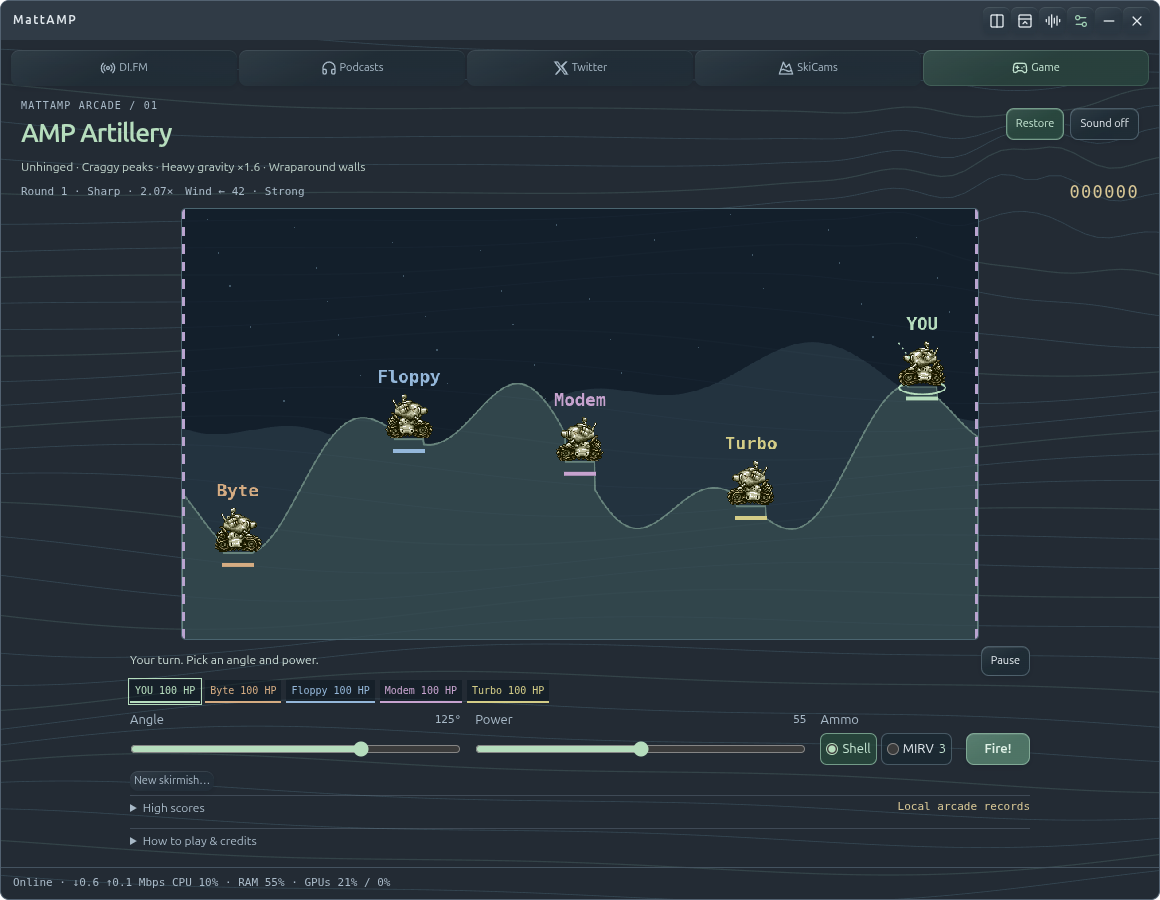
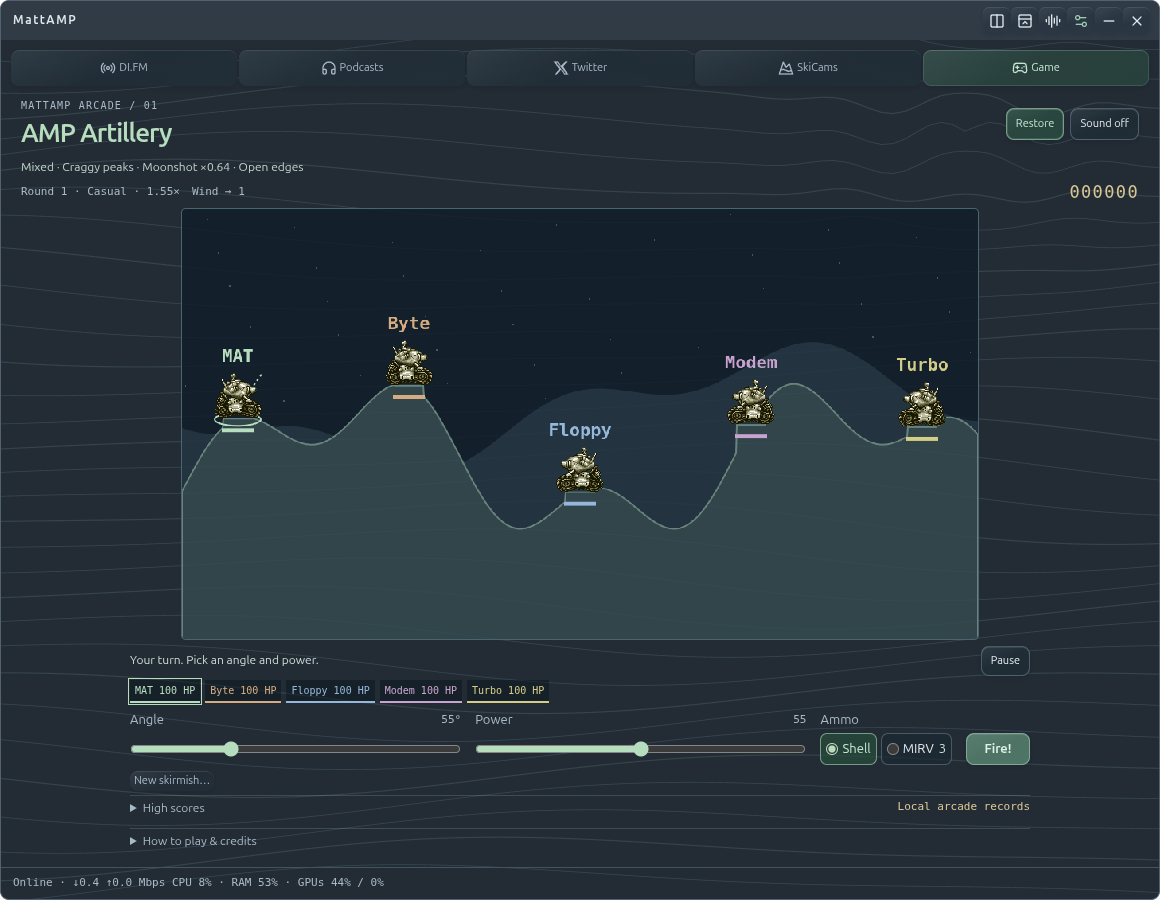
Label the player tank with their arcade initials

diff --git a/src/artillery-ui.js b/src/artillery-ui.js
@@ -18,7 +18,7 @@ class MattArcade{
   this.$('abandon-no').onclick=()=>{this.$('abandon').hidden=true;this.paused=false;this.sync();};
   this.$('abandon-yes').onclick=()=>this.reset();this.$('again').onclick=()=>{if(this.visible&&this.battle?.phase==='over'&&!this.saving&&!this.victory.active)this.reset();};
   this.$('save-retry').onclick=()=>void this.saveScore();
-  this.$('initials').oninput=e=>{e.target.value=e.target.value.toUpperCase().replace(/[^A-Z0-9]/g,'').slice(0,3);};
+  this.$('initials').oninput=e=>{e.target.value=e.target.value.toUpperCase().replace(/[^A-Z0-9]/g,'').slice(0,3);this.updatePreviewName();};
   for(const details of panel.querySelectorAll('details'))details.addEventListener('toggle',onResize);
   this.canvas.onpointerdown=e=>{
    const b=this.battle;if(!b||b.phase!=='aim'||b.active.id!==0||this.paused)return;
@@ -60,12 +60,13 @@ class MattArcade{
   this.blastFrames=[...Array.from({length:10},(_,i)=>[104+i*48,84,48,64]),...[[2,47],[49,47],[96,47],[143,45],[188,44],[232,44],[276,42],[318,41],[359,38],[397,38],[435,36],[471,34],[505,35],[540,36]].map(([x,w])=>[x,148,w,64])];
   void this.loadScores();this.draw();
  }
- createPreview(){return new MattArtillery.Battle({bots:Number(this.$('bots').value),skill:Number(this.$('skill').value),chaos:this.$('chaos').value});}
+ createPreview(){const preview=new MattArtillery.Battle({bots:Number(this.$('bots').value),skill:Number(this.$('skill').value),chaos:this.$('chaos').value});preview.tanks[0].name=this.$('initials').value.toUpperCase()||'MAT';return preview;}
+ updatePreviewName(){if(this.battle)return;this.preview.tanks[0].name=this.$('initials').value.toUpperCase()||'MAT';this.draw();}
  refreshPreview(){if(this.battle)return;this.preview=this.createPreview();this.render();this.draw();this.onResize();}
- async loadScores(){try{const res=await window.deck.arcadeRead();if(!res.ok)throw new Error(res.error);this.scores=res.data;this.$('initials').value=res.data.initials||'MAT';this.renderScores();}catch(e){this.$('score-empty').textContent=e.message;}}
+ async loadScores(){try{const res=await window.deck.arcadeRead();if(!res.ok)throw new Error(res.error);this.scores=res.data;this.$('initials').value=res.data.initials||'MAT';this.updatePreviewName();this.renderScores();}catch(e){this.$('score-empty').textContent=e.message;}}
  start(){
   this.victory.stop();this.clearQuip();this.volley=null;this.dance=null;
-  this.battle=this.preview;this.battle.history=(this.scores?.rivalry||[]).slice(-3);this.initials=this.$('initials').value.toUpperCase()||'MAT';this.id=crypto.randomUUID();this.record=null;this.paused=false;this.lastState='';
+  this.battle=this.preview;this.battle.history=(this.scores?.rivalry||[]).slice(-3);this.initials=this.$('initials').value.toUpperCase()||'MAT';this.battle.tanks[0].name=this.initials;this.id=crypto.randomUUID();this.record=null;this.paused=false;this.lastState='';
   this.$('setup').hidden=true;this.$('end').hidden=true;this.$('abandon').hidden=true;this.$('save-retry').hidden=true;this.$('new').hidden=false;
   this.$('angle').value=this.battle.tanks[0].angle;this.$('power').value=55;this.$('weapon-shell').checked=true;this.updateAim();this.sync();this.$('angle').focus();
  }

diff --git a/README.md b/README.md
@@ -200,9 +200,9 @@ Your favorites and rotation preferences stay on your machine. No MattAMP account
 
 ## Tiny tanks. Questionable decisions.
 
-**AMP Artillery** is an untimed, last-tank-standing skirmish against **3–5 bots**. Pick a skill from **Very dumb** to **Human-ish**, enter your three-letter arcade initials, and start rearranging the landscape.
+**AMP Artillery** is an untimed, last-tank-standing skirmish against **3–5 bots**. Pick a skill from **Very dumb** to **Human-ish**, enter your three-letter arcade initials, and start rearranging the landscape. Your initials also name your tank on the battlefield and health roster.
 
-![Expanded AMP Artillery battlefield with five tanks, wraparound walls, and aiming controls](docs/images/artillery.png)
+![Expanded AMP Artillery battlefield with five tanks labeled with arcade names and aiming controls](docs/images/artillery.png)
 
 You get unlimited shells and **three MIRVs**, each splitting into five warheads. Terrain deforms, splash damage hurts, falling hurts, and wind occasionally decides that your carefully calculated shot belongs in another postcode.
 

diff --git a/docs/images/README.md b/docs/images/README.md
@@ -7,7 +7,7 @@ Captured from MattAMP in October 2026 using a fresh, isolated profile. These are
 | `desktop.png` | Five-tab navigation, Synthwave artwork, wave background, and live workstation meters. Radio is stopped because this profile has no Premium key. |
 | `skicams.png` | Heavenly's real Top of Tram player inside SkiCams, with 15-minute auto-cycle enabled. The provider controls the stream and its availability. |
 | `skicams-settings.png` | The camera settings section with the four default views and favorite-management controls. |
-| `artillery.png` | An expanded five-tank skirmish with an Unhinged arena and wraparound walls. |
+| `artillery.png` | An expanded five-tank skirmish with a Mixed arena, Moonshot gravity, and MAT as the player tank name. |
 | `stacked.png`, `compact.png`, `bug.png` | The other three desktop layouts; the bug is captured at its native 56 × 56 size. |
 | `podcasts-youtube.png`, `podcasts-audio.png` | The same real Last Week in AI episode loaded through the YouTube and RSS players, ready to play. |
 | `podcasts-settings.png` | The editable default podcast library. |
